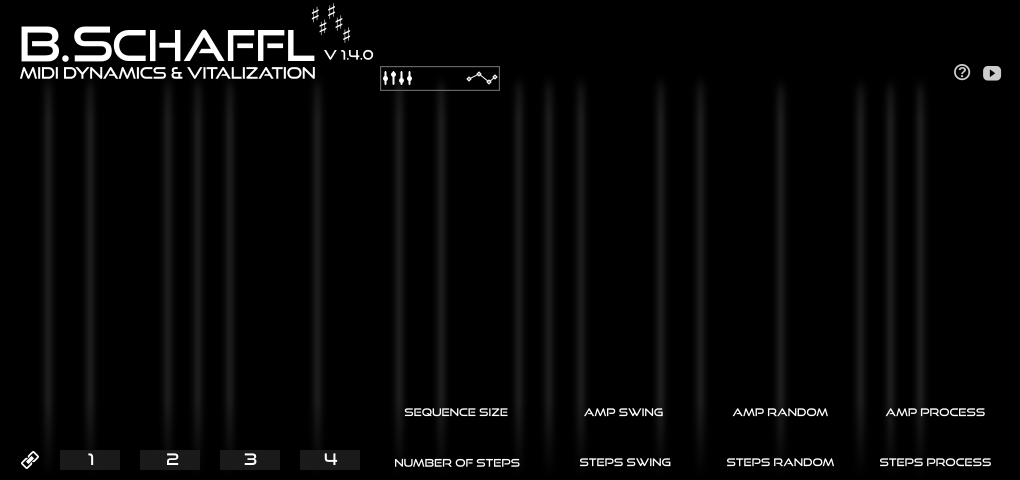
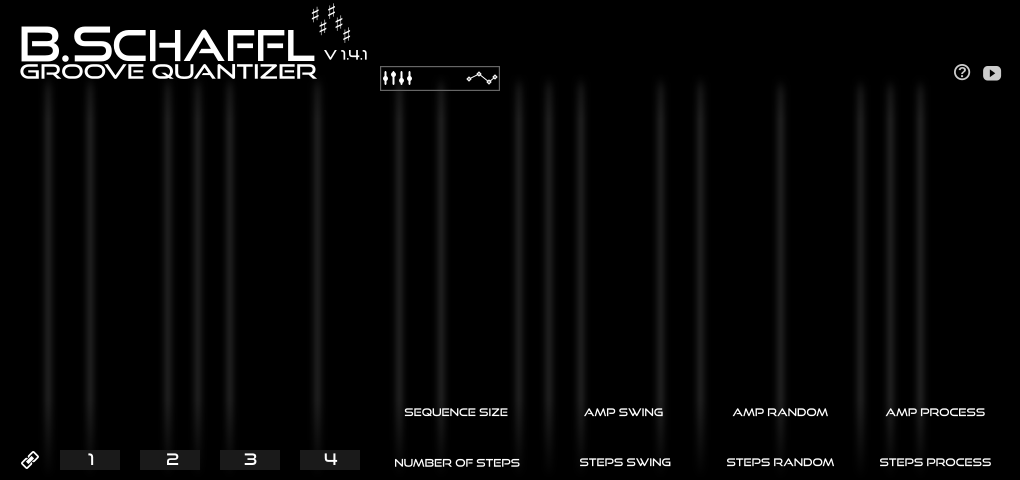
v1.4.0->v1.4.1, new subtitle

Changed region(s): [[0.0, 0.125, 0.3039, 0.1875], [0.3343, 0.0938, 0.3647, 0.125]]

diff --git a/README.md b/README.md
@@ -1,6 +1,6 @@
 # B.Schaffl
 
-MIDI dynamics and vitalization LV2 plugin.
+Groove quantizer LV2 MIDI plugin.
 
 B.Schaffl is a slider / shape-controlled MIDI amp & time stretch plugin to vitalize sequencer-controlled MIDI
 instruments and to produce shuffle / swing effects.
